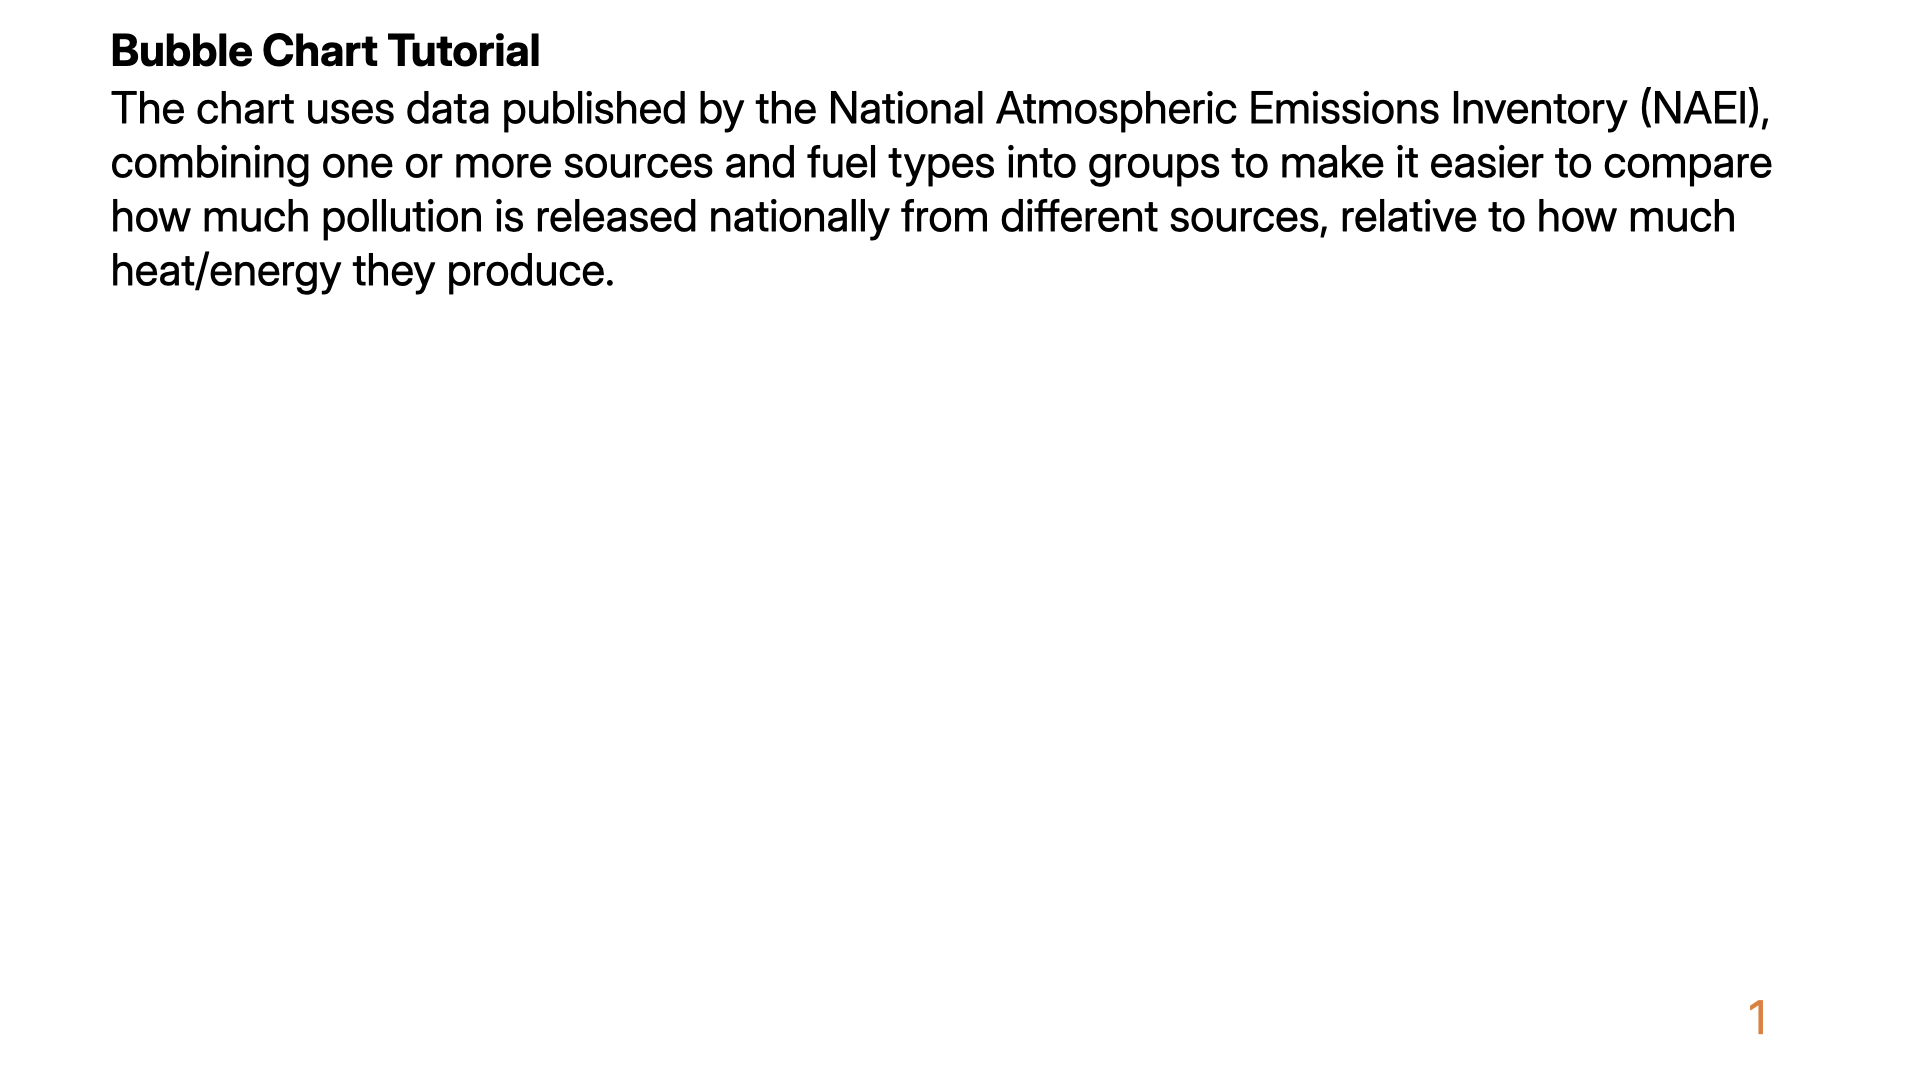
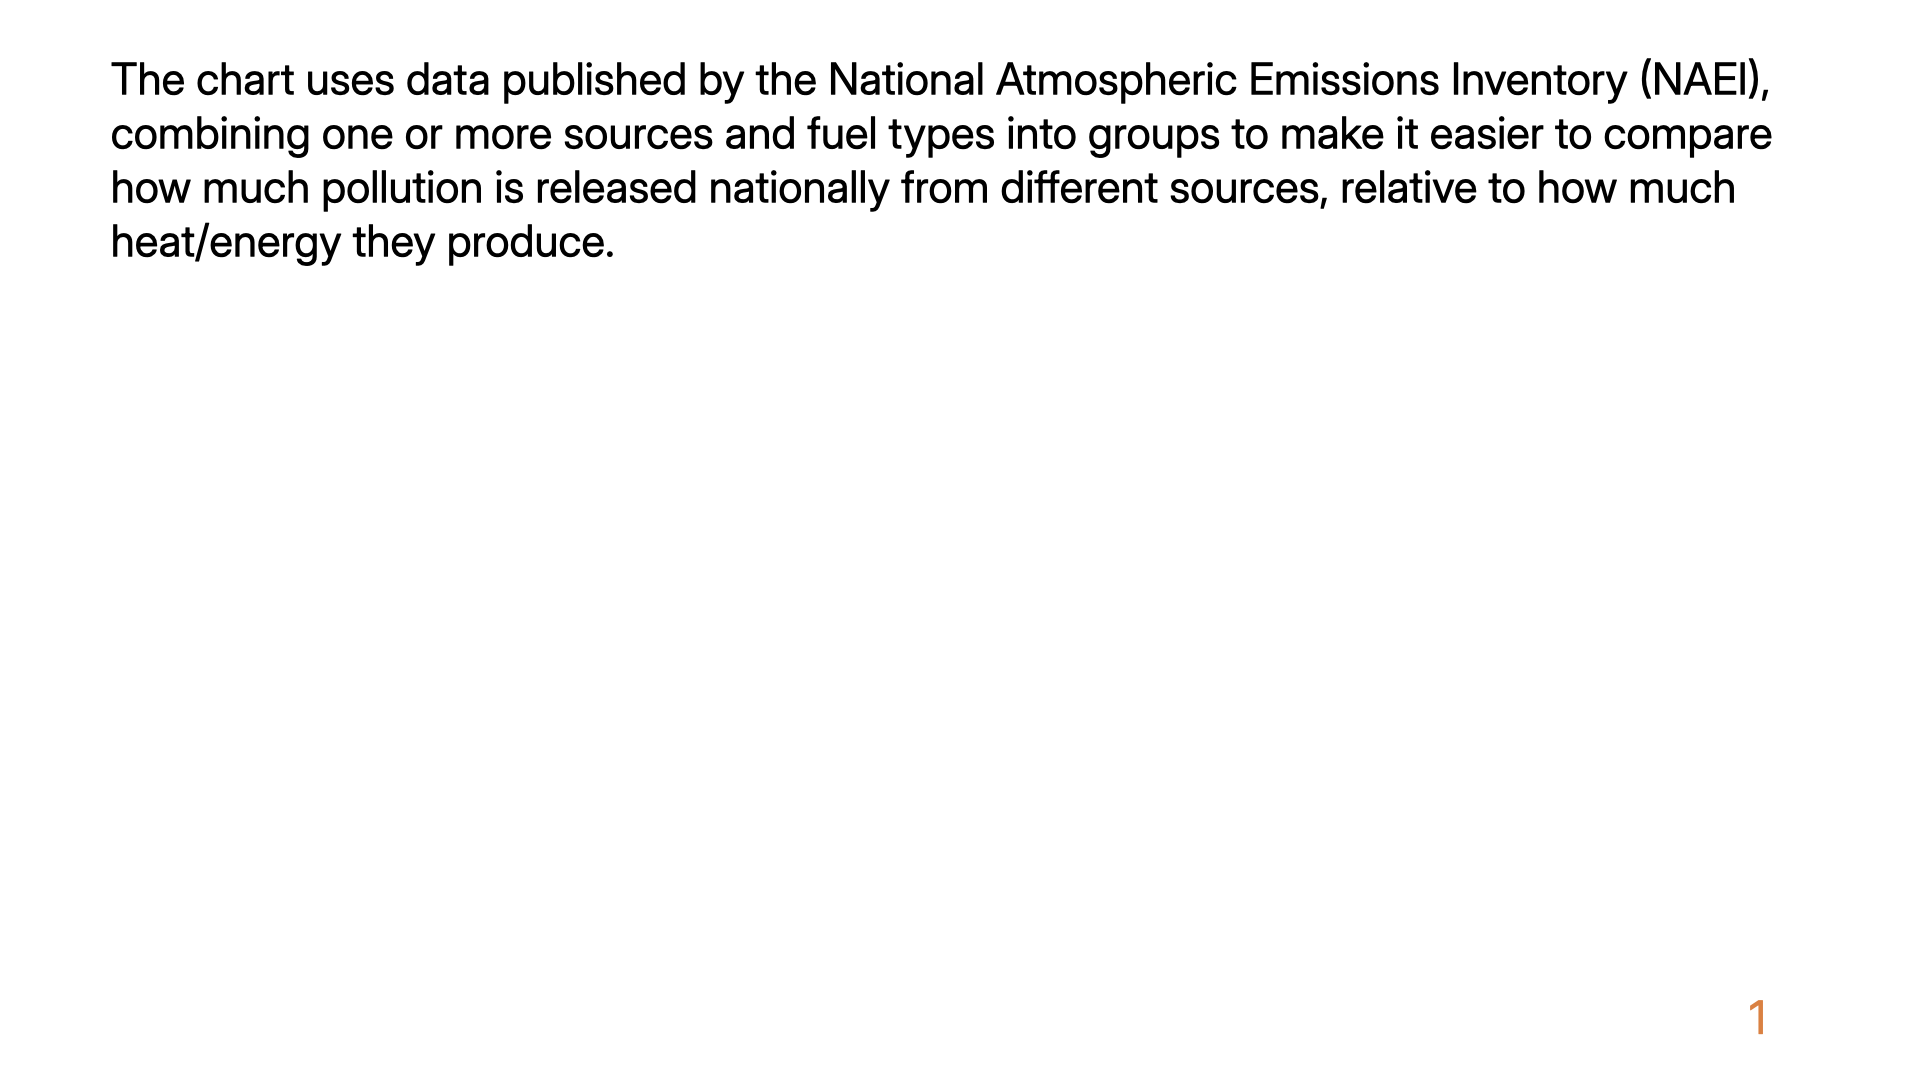
Update tutorial images and adjust header margin
Replaced two tutorial slide images with updated versions and set the margin-bottom of .bubble-tutorial-header to 0 in styles.css for improved layout.

Changed region(s): [[0.0312, 0.0306, 0.9375, 0.275]]

diff --git a/CIC-test-naei-bubblechart-v2.0/styles.css b/CIC-test-naei-bubblechart-v2.0/styles.css
@@ -308,7 +308,7 @@ select,
 }
 
 .bubble-tutorial-header {
-  margin-bottom: 16px;
+  margin-bottom: 0;
 }
 
 .bubble-tutorial-header h3 {
